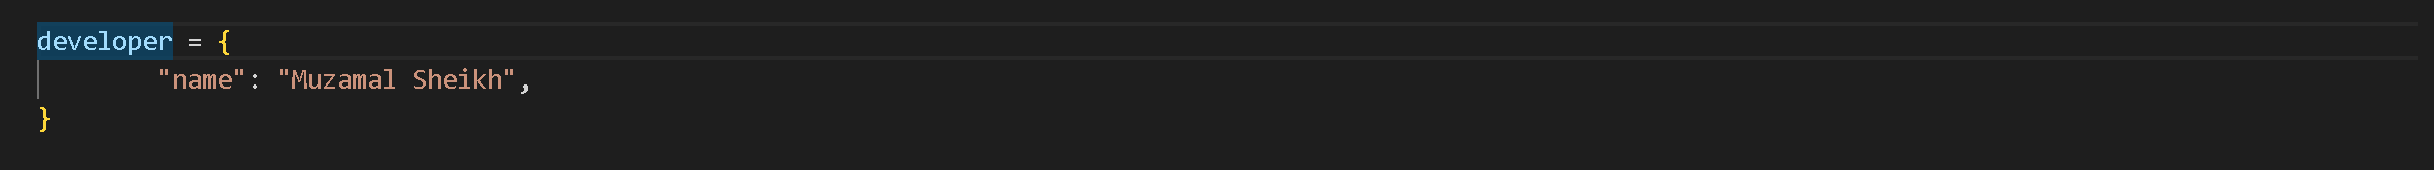
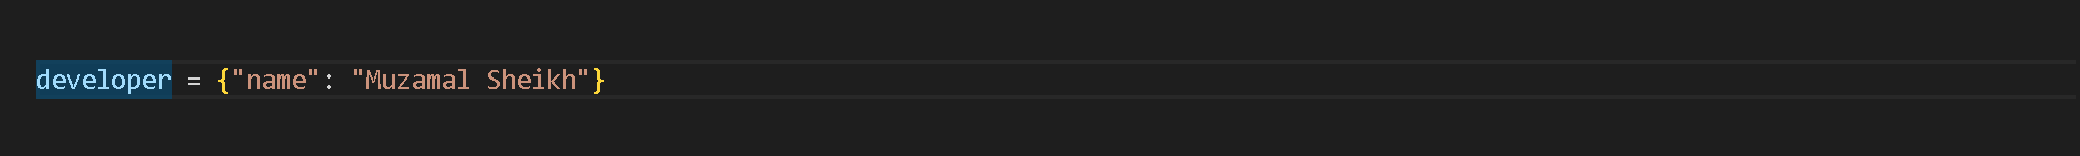
redesign tweaks

Changed region(s): [[0.0, 0.3846, 0.2812, 0.641], [0.0, 0.1282, 0.0938, 0.359]]

diff --git a/src/css/navbar.css b/src/css/navbar.css
@@ -6,9 +6,9 @@
     /* padding-top: 10px; */
     background-color: black;
     background: url(/src/images/dev2.png);
-    background-position: 2% 0%;
+    background-position: 2% 40%;
     /* background-size: 80%; */
-    padding-bottom:6ch;
+    padding-bottom:5ch;
     /* zoom: 10%; */
     background-repeat: no-repeat;
     border-radius: 2em;

diff --git a/src/images/dev2.py b/src/images/dev2.py
@@ -1,6 +1,4 @@
 
 
 
-developer = {
-        "name": "Muzamal Sheikh",
-}
+developer = {"name": "Muzamal Sheikh"}
